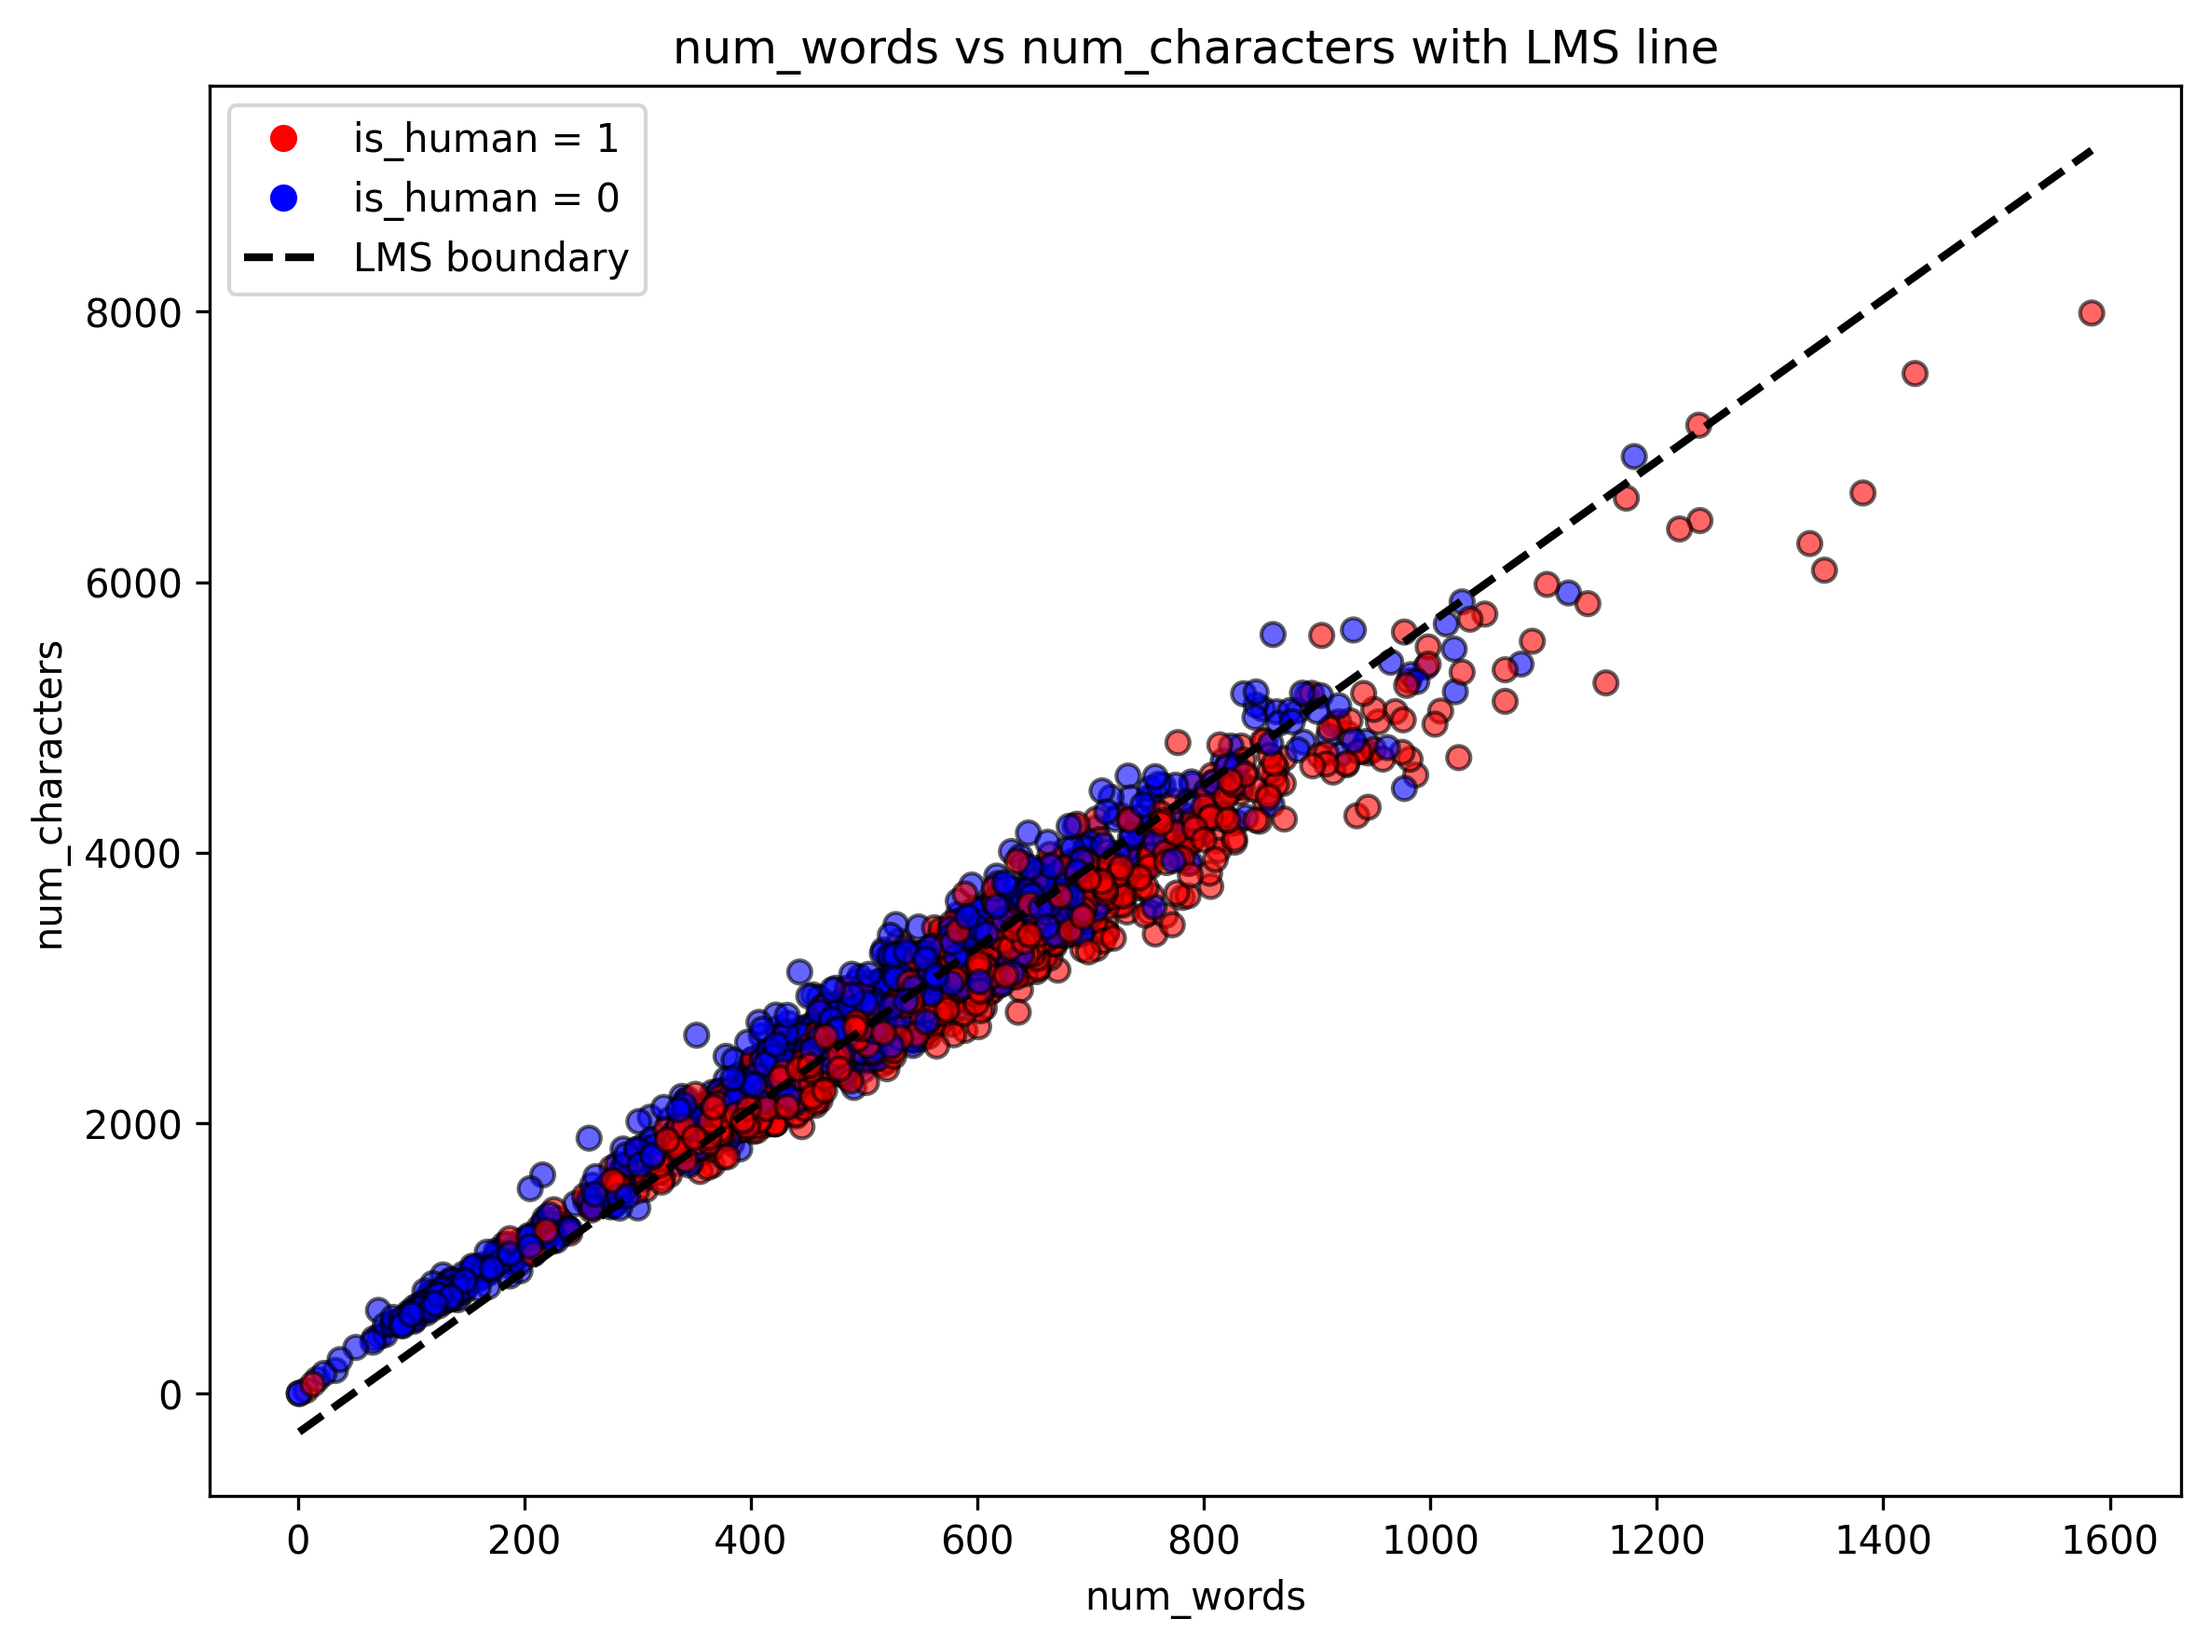
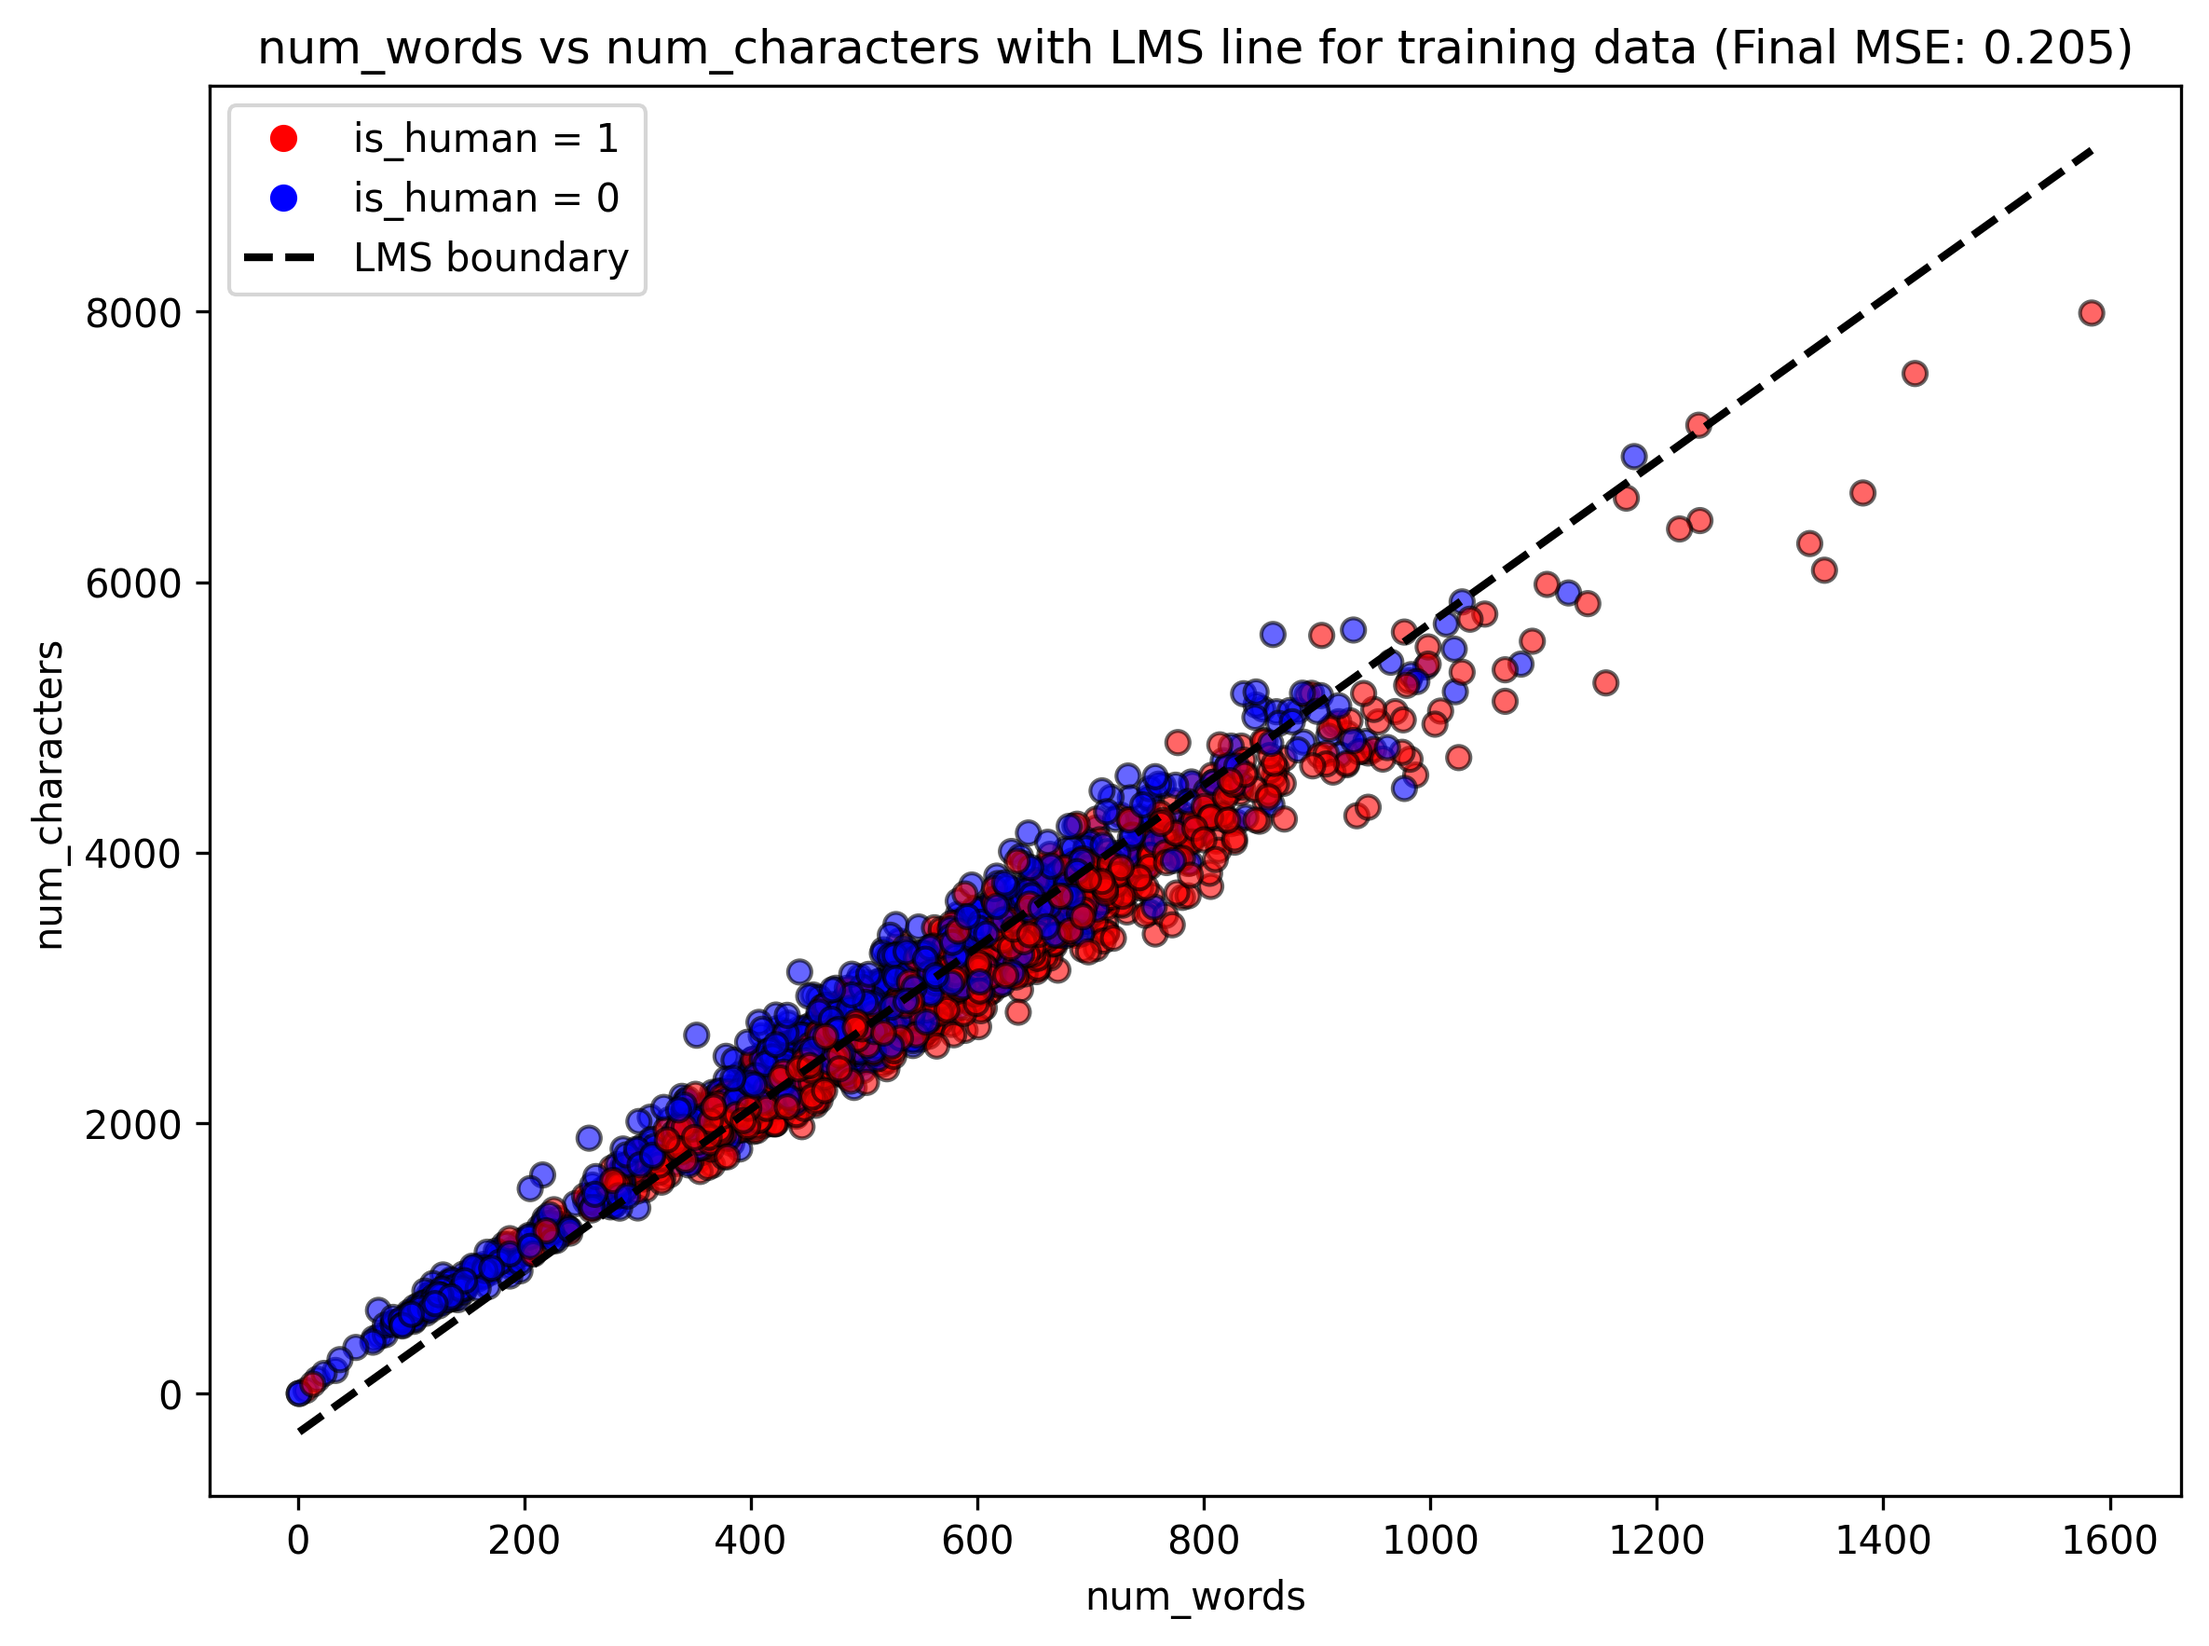
H2-solved task 6

diff --git a/H2/LinearRegression.py b/H2/LinearRegression.py
@@ -140,7 +140,7 @@ class ClassLMS():
 
         plt.xlabel(f1)
         plt.ylabel(f2)
-        plt.title(f'{f1} vs {f2} with LMS line')
+        plt.title(f'{f1} vs {f2} with LMS line for training data (Final MSE: {self.error_history[-1]:.3f})')
         from matplotlib.lines import Line2D
         legend_elements = [
             Line2D([0],[0], marker='o', color='w', label='is_human = 1', markerfacecolor='red', markersize=8),
